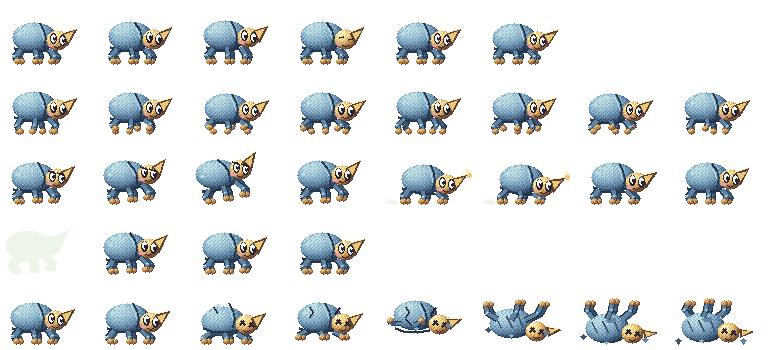
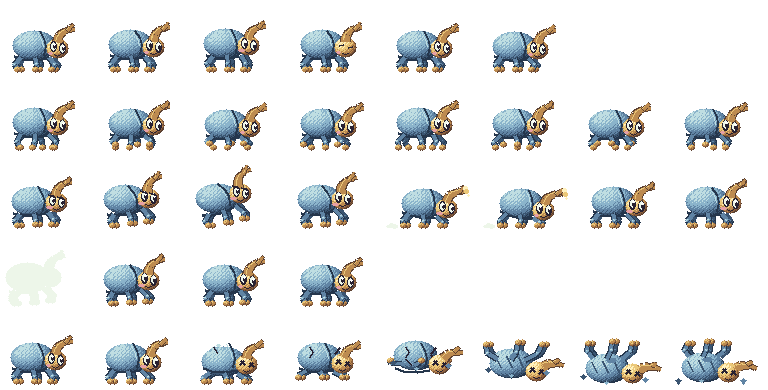
Ironhide redo: tapered rhinoceros-beetle horn instead of a flat cone; frame 96x78 (candidate Beta 1.39.12)

diff --git a/scripts/meadow_slime_redraw.py b/scripts/meadow_slime_redraw.py
@@ -5,7 +5,7 @@ The shell, head and horn never squash or stretch: they translate and tilt as sol
 Planted feet rest exactly on the anchor row (Painter y=0, row 90).  The attack is a rear-up (wind-up), a horn
 slam forward (strike) and a recovery, eight distinct frames.  The death cracks the shell, buckles the legs and
 rolls the beetle onto its back with its legs in the air.  Frame size is free per zone (owner, 2026-11-04): the
-Painter draws on 96x96 and every frame is cropped to FW x FH (96x70, anchor 40,64).
+Painter draws on 96x96 and every frame is cropped to FW x FH (96x78, anchor 40,72).
 
 --replace is refused.  Old sources stay saved; export preserves saved editor frames.
 """
@@ -23,25 +23,26 @@ import urllib.request
 import numpy as np
 from PIL import Image, ImageDraw
 from wyrd_slime_redraw import Painter, mix
-from deep_slime_redraw import sm
+from deep_slime_redraw import sm, bez, taper
 
 ROOT = Path(__file__).resolve().parents[1]
 ASSETS = ROOT/'client/assets'
 OUT = ROOT/'test-results/meadow-slime'
 REGISTRY = ROOT/'scripts/meadow_slime_sources.txt'
-PREFIX = 'valhallasc_meadow_ironhide_redo_'
+PREFIX = 'valhallasc_meadow_ironhide_redo_b_'
 KIND = 'beetle'
 CLIPS = {'idle': (6, 6), 'walk': (10, 8), 'attack': (12, 8), 'hurt': (10, 4), 'die': (8, 8)}
-FW, FH = 96, 70                    # exported frame
-X0, Y0 = 0, 26                     # crop origin inside the 96x96 Painter canvas
+FW, FH = 96, 78                    # exported frame
+X0, Y0 = 0, 18                     # crop origin inside the 96x96 Painter canvas
 CX = 40                            # Painter x origin (the beetle's local x = 0)
-AX, AY = CX-X0, 90-Y0              # anchor inside the exported frame: (40, 64)
+AX, AY = CX-X0, 90-Y0              # anchor inside the exported frame: (40, 72)
 PALETTE = ['#00000000', '#282131', '#ffffff', '#edf6e9', '#e6a0a5',
            '#25364c', '#3b5571', '#6084a4', '#8bb4cb', '#bfdee2',
            '#5b4031', '#8a5e3c', '#bd8b50', '#ebc879', '#fff1bd']
 assert len(set(PALETTE)) == len(PALETTE), 'duplicate palette hex'
 STEEL = [5, 6, 7, 8, 9]
 GOLD = [10, 11, 12, 13, 14]
+HORN = [10, 10, 12, 13, 14]                           # dark outline, bronze body, bright edge
 
 # Attack: rear up on the hind legs (wind-up), slam the horn forward and down (strike), then recover.
 ATK_OX = [0, -1, -1, 0, 3, 4, 2, 1]
@@ -148,24 +149,25 @@ def beetle(clip, n):
             if n >= 3:
                 a.line([T(*p) for p in [(14, 36), (9, 30), (13, 24), (7, 18)][:n-1]], 1, 2)
     legs(False)
-    # head, blush, mouth and a blunt gold horn
+    # head, blush, mouth and a tapered bronze horn
     if dead:
         hx, hy = mix(17, 19, sr)+ox, mix(24-sag, 10, sr)+3*math.sin(math.pi*r)
     else:
         hx, hy = T(17, 24)
     a.ball(hx, hy, 11, 10, GOLD)
-    horn_a = [(21, 31), (37, 36), (27, 19)]
-    horn_b = [(30, 14), (46, 11), (31, 5)]
-    if dead:
-        shift = (hx-mix(17, 19, sr), hy-mix(24, 10, sr))
-        hp = [(p[0]+shift[0], p[1]+shift[1]) for p in lerp_pts(horn_a, horn_b, sr)]
-    else:
-        hp = [T(*p) for p in horn_a]
-    a.poly(hp, 10)
-    cxm = sum(p[0] for p in hp)/3
-    cym = sum(p[1] for p in hp)/3
-    a.poly([(cxm+(p[0]-cxm)*.55, cym+(p[1]-cym)*.55) for p in hp], 13)
-    a.line([hp[0], hp[1]], 14, 1)
+    # Rhinoceros-beetle horn: rooted on top of the head, rising and sweeping forward with an upturned tip and a short
+    # second tine.  Drawn as a tapered, outlined curve so it reads as a horn, not a cone.
+    horn_parts = [(bez((17, 30), (19, 44), (34, 43), 10), bez((27, 15), (36, 20), (47, 14), 10), 9, 2.5),
+                  (bez((27, 42), (31, 46), (33, 48), 4), bez((38, 18), (41, 20), (43, 20), 4), 4.5, 1.5)]
+    tip = None
+    for rest_pts, back_pts, w0, w1 in horn_parts:
+        if dead:
+            shift = (hx-mix(17, 19, sr), hy-mix(24, 10, sr))
+            pts = [(p[0]+shift[0], p[1]+shift[1]) for p in lerp_pts(rest_pts, back_pts, sr)]
+        else:
+            pts = [T(*p) for p in rest_pts]
+        taper(a, pts, HORN, w0, w1)
+        tip = tip or pts[-1]
     ey = hy+1
     for dx, dy in ((-4, 1), (5, -1)):
         a.eye(hx+dx, ey+dy, clip, n, .72)
@@ -173,7 +175,7 @@ def beetle(clip, n):
         a.ellipse(hx-7, hy-5, 2.5, 1.3, 4)
     a.line([(hx-3, hy-6), (hx, hy-7.5), (hx+3, hy-6)], 1)
     if clip == 'attack' and n in (4, 5):                  # impact sparks and dust
-        tx, ty = hp[1]
+        tx, ty = tip
         for k in range(3):
             a.ellipse(tx+.5+k*1.2, ty+3.5-k*3.8, 2.2-k*.4, 2.2-k*.4, 14 if k % 2 == 0 else 13)
         for k in range(3):

diff --git a/scripts/meadow_slime_review.py b/scripts/meadow_slime_review.py
@@ -21,8 +21,8 @@ OUT = ROOT/'test-results/meadow-slime'
 FONT = ImageFont.truetype('/usr/share/fonts/truetype/dejavu/DejaVuSans.ttf', 20)
 SMALL = ImageFont.truetype('/usr/share/fonts/truetype/dejavu/DejaVuSans.ttf', 15)
 BG = '#283c32'
-NEW = (96, 70)
-W, H = 100, 72                    # common padded canvas for before/after pictures
+NEW = (96, 78)
+W, H = 100, 80                    # common padded canvas for before/after pictures
 OLD = (72, 64)                    # the live (slime-style, squashing) Ironhide frame
 
 
@@ -35,7 +35,7 @@ def pose(atlas, row, n, scale=3):
     bottom-aligned on the feet so before and after sit on the same ground line at the same pixel scale."""
     fw, fh = (OLD if atlas.width == 8*OLD[0] else NEW)
     cell = atlas.crop((n*fw, row*fh, (n+1)*fw, (row+1)*fh))
-    ground = 60 if fw == OLD[0] else 64           # anchor row of each atlas
+    ground = 60 if fw == OLD[0] else 72           # anchor row of each atlas
     canvas = Image.new('RGBA', (W, H), (0, 0, 0, 0))
     ox, oy = (W-fw)//2, (H-8)-ground
     canvas.alpha_composite(cell, (ox, oy))
@@ -69,7 +69,7 @@ def review():
 
     gallery = Image.new('RGB', (8*W*3, 5*(H*3+26)+36), BG)
     d = ImageDraw.Draw(gallery)
-    d.text((12, 6), 'Ironhide / every saved PixelFlow frame (96x70, anchor 40,64)', font=FONT, fill='white')
+    d.text((12, 6), 'Ironhide / every saved PixelFlow frame (96x78, anchor 40,72)', font=FONT, fill='white')
     for clip, spec in meta['clips'].items():
         for n in range(spec['n']):
             x, y = n*W*3, 36+spec['row']*(H*3+26)

diff --git a/docs/ironhide-art.md b/docs/ironhide-art.md
@@ -6,13 +6,16 @@ Greenmeadow slime style: shell, head and horn only translate and tilt as solid p
 
 - **Pipeline:** `scripts/meadow_slime_redraw.py preview | build | refresh | export | verify` (the
   `make_ironhide_sprites.py` CLI delegates; `--replace` is refused). One native PixelFlow source,
-  `valhallasc_meadow_ironhide_redo_all` = **d80cccfe6dfc9e32** (`scripts/meadow_slime_sources.txt`). The earlier
-  rigid candidate (`d1ab641330d34105`, never live) is kept in `meadow_slime_v1_sources.txt` / `meadow_slime_v1_raw.npz`;
+  `valhallasc_meadow_ironhide_redo_b_all` = **dfe4da1671317338** (`scripts/meadow_slime_sources.txt`). The earlier
+  rigid candidate (`d1ab641330d34105`, never live) and the first redo draft (`d80cccfe6dfc9e32`, 96x70, cone horn; `meadow_slime_draft_sources.txt`) are kept in `meadow_slime_v1_sources.txt` / `meadow_slime_v1_raw.npz`;
   the live slime-style source `399849edffa3ab6f` and the original `a3f8837048d1098c` stay in PixelFlow.
   `refresh` rewrites the saved source from the drawer (overwrites editor edits); `export` keeps editor edits.
-- **Frame:** 96x70, anchor (40,64), atlas 768x350 (frame size is free per zone; the old frame was 72x64). The
+- **Frame:** 96x78, anchor (40,72), atlas 768x390 (frame size is free per zone; the old frame was 72x64). The
   Painter draws on 96x96 and each frame is cropped. Same art pixel scale as before, so the beetle keeps its size.
   `client/field.js` now applies `meta.tops.beetle` to `SLIME.beetle.top` (the old manifest had no `tops`).
+- **Horn:** a rhinoceros-beetle horn rooted on top of the head, a tapered outlined bronze curve (`bez` + `taper`) that
+  rises and sweeps forward with a short tine; the first draft's flat cone read as a beak, so it was replaced and the
+  frame grew 8 px taller for the rearing attack. On defeat it lies forward along the ground.
 - **Grounding:** every living frame's lowest pixel is exactly the anchor row (feet are Painter balls with integer
   radius, centre y = radius + lift); death frames never sink below it.
 - **Attack (eight distinct frames):** rear up on the hind legs (1-3, pitch up to 20 degrees, front feet lifted),
@@ -22,7 +25,7 @@ Greenmeadow slime style: shell, head and horn only translate and tilt as solid p
 - **Check:** `bash scripts/test-touch-bounded.sh tests/ironhide-slime-art.cjs` (needs `NODE_PATH` with the main
   `node_modules` and `VALHALLA_BINARY` = the main `target/release/valhalla-server` when run from a worktree): 22
   checks incl. 8 distinct attack and death frames, wind-up/strike/recovery extents, constant steel area (rigid),
-  grounding on row 64, health-bar top and portrait. `MUTATE_PNG=<atlas shifted one row up>` must fail the grounding check.
+  grounding on row 72, health-bar top and portrait. `MUTATE_PNG=<atlas shifted one row up>` must fail the grounding check.
 - **Rollback:** `python3 scripts/rollback_meadow_art.py --target <checkout> --apply` restores the live slime-style
   `ironhide.png`/`ironhide.txt` from `/media/raid/valhallasc-data/meadow-slime-original-20261103` (hash-verified,
   dry run by default, corrupt-backup refusal tested). The change is client-only: no server rebuild or restart.
